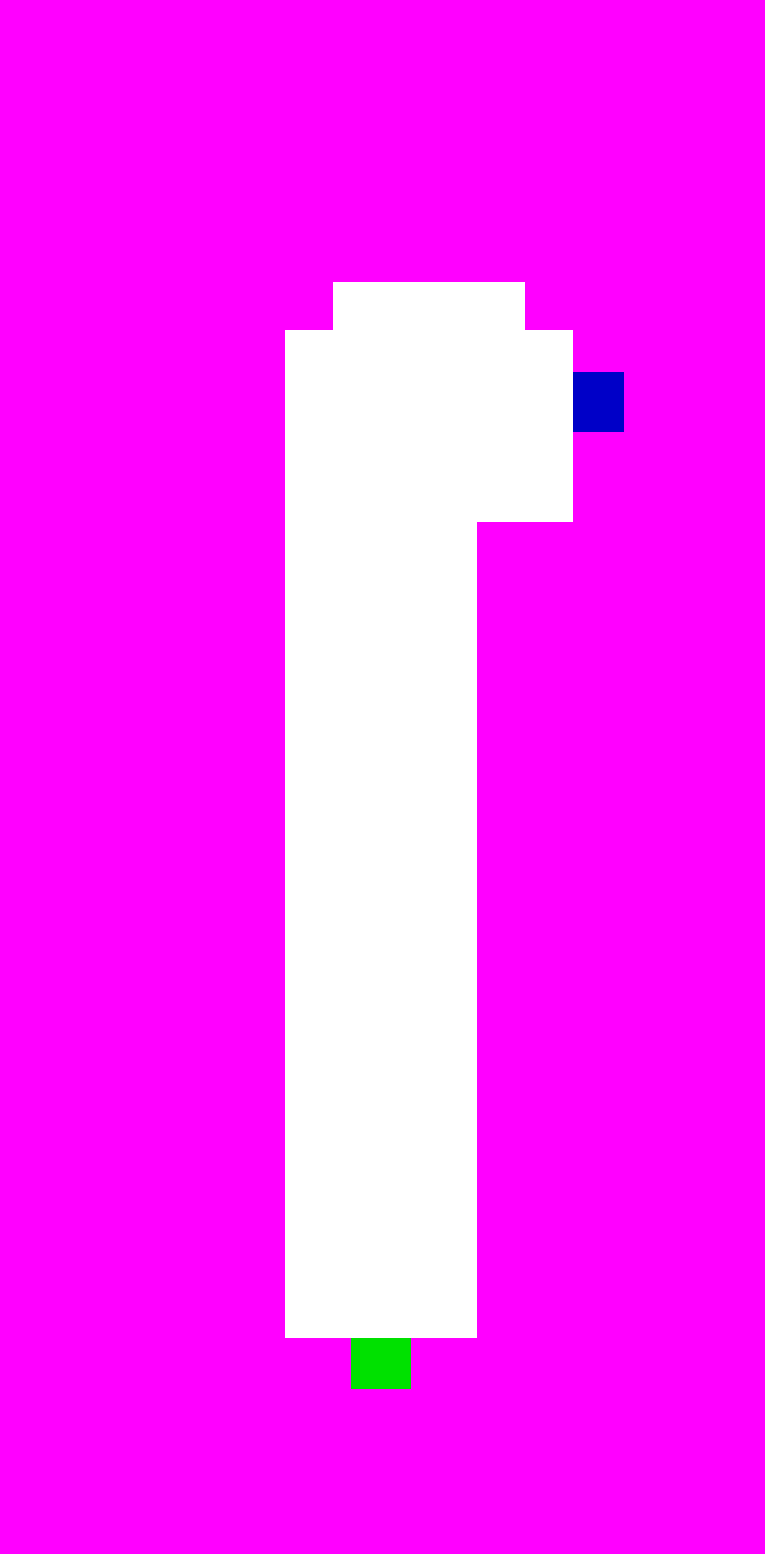
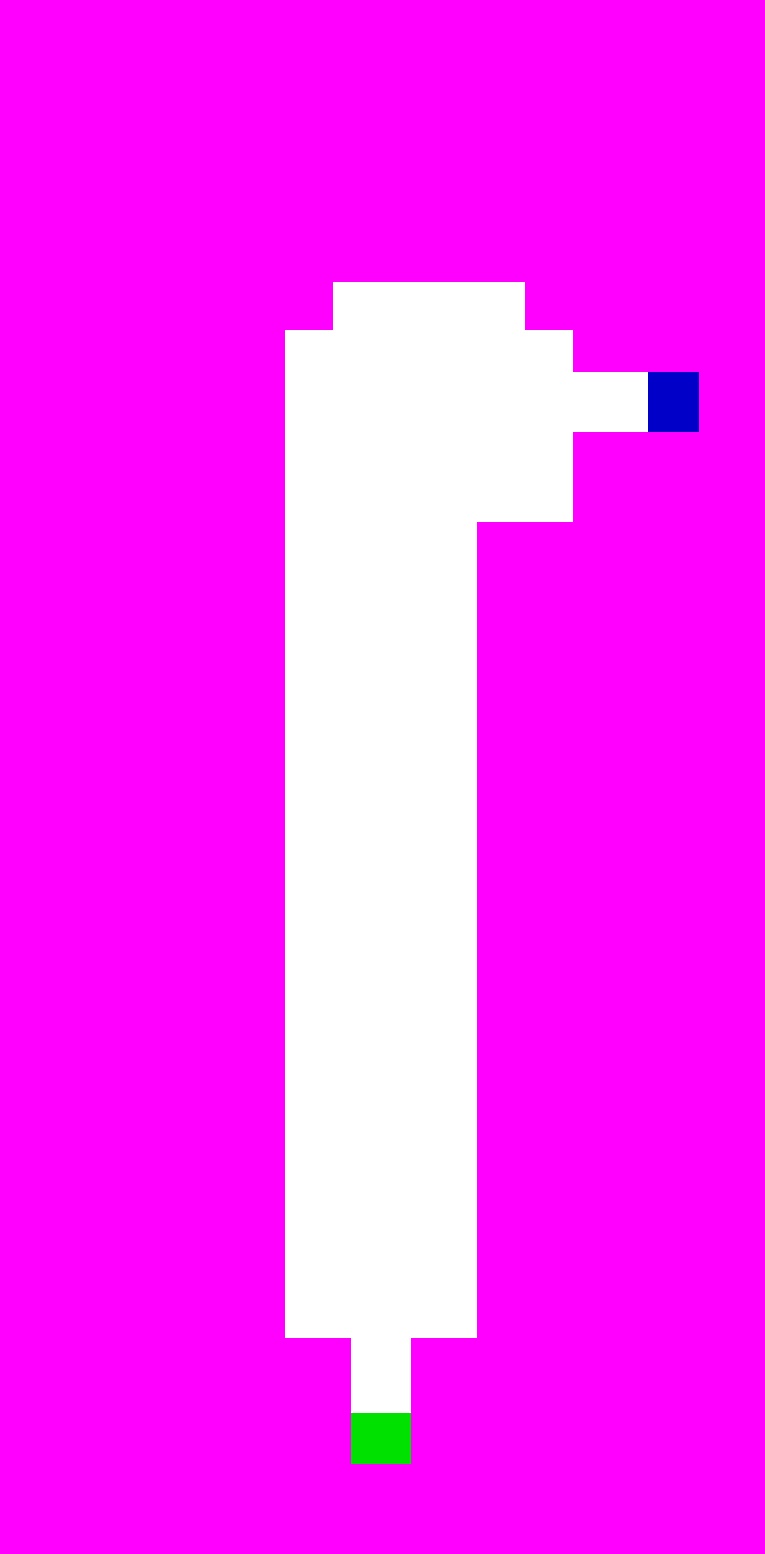
feat: update room move render order method

Changed region(s): [[0.7516, 0.2162, 0.932, 0.278], [0.451, 0.834, 0.5412, 0.9575]]

diff --git a/LinkToThePast/Zelda/HyruleCastleGameMode.cpp b/LinkToThePast/Zelda/HyruleCastleGameMode.cpp
@@ -8,6 +8,7 @@
 #include "Fade.h"
 #include "StatueFire.h"
 #include "StatueStone.h"
+#include "ContentsEnum.h"
 
 
 AHyruleCastleGameMode::AHyruleCastleGameMode()
@@ -70,32 +71,51 @@ void AHyruleCastleGameMode::RoomBeginPlay()
 
 	CreateRoomActor("Castle", 0);
 
+	this->Roomes[0]->CreateEnvSprite("Castle1Door1.png", FVector2D(285, 1389), FVector2D(195, 165), ERenderOrder::FIRST_FLOOR_OBJ);
+	this->Roomes[0]->CreateEnvSprite("Castle1Door2.png", FVector2D(624, 324), FVector2D(81, 174), ERenderOrder::FIRST_FLOOR_OBJ);
+
+	this->Roomes[1]->CreateEnvSprite("Castle2Door1.png", FVector2D(0, 255), FVector2D(141, 288), ERenderOrder::FIRST_FLOOR_OBJ);
+	this->Roomes[1]->CreateEnvSprite("Castle2Door2.png", FVector2D(1395, 300), FVector2D(140, 219), ERenderOrder::FIRST_FLOOR_OBJ);
+
 	this->Roomes[2]->SetIsSecondFloor(true);
 	this->Roomes[2]->GetColSpriteRenderer2F()->SetOrder(ERenderOrder::COLMAP);
 	this->Roomes[2]->GetColSpriteRenderer2F()->SetSprite("Castle3Collision2F.png");
 	FVector2D ColMap1Scale = this->Roomes[2]->GetColSpriteRenderer2F()->SetSpriteScale(1.0f);
 	this->Roomes[2]->GetColSpriteRenderer2F()->SetComponentLocation(ColMap1Scale.Half());
+	this->Roomes[2]->CreateEnvSprite("Castle3Door1.png", FVector2D(57, 252), FVector2D(84, 270), ERenderOrder::FIRST_FLOOR_OBJ);
+	this->Roomes[2]->CreateEnvSprite("Castle3Door2.png", FVector2D(288, 1389), FVector2D(195, 165), ERenderOrder::FIRST_FLOOR_OBJ);
+	this->Roomes[2]->CreateEnvSprite("Castle3Door3.png", FVector2D(635, 1458), FVector2D(268, 96), ERenderOrder::SECOND_FLOOR_OBJ);
 
 	this->Roomes[3]->SetIsSecondFloor(true);
 	this->Roomes[3]->GetColSpriteRenderer2F()->SetOrder(ERenderOrder::COLMAP);
 	this->Roomes[3]->GetColSpriteRenderer2F()->SetSprite("Castle4Collision2F.png");
 	FVector2D ColMap2Scale = this->Roomes[3]->GetColSpriteRenderer2F()->SetSpriteScale(1.0f);
 	this->Roomes[3]->GetColSpriteRenderer2F()->SetComponentLocation(ColMap2Scale.Half());
-	this->Roomes[3]->CreateEnvSprite("Castle4Bridge.png", FVector2D(528, 384), FVector2D(192, 552));
+	this->Roomes[3]->CreateEnvSprite("Castle4Bridge.png", FVector2D(528, 384), FVector2D(192, 552), ERenderOrder::SECOND_FLOOR);
+	this->Roomes[3]->CreateEnvSprite("Castle4Door1.png", FVector2D(288, 0), FVector2D(194, 168), ERenderOrder::FIRST_FLOOR_OBJ);
+	this->Roomes[3]->CreateEnvSprite("Castle4Door2.png", FVector2D(655, 0), FVector2D(212, 96), ERenderOrder::SECOND_FLOOR_OBJ);
+	this->Roomes[3]->CreateEnvSprite("Castle4Door3.png", FVector2D(0, 669), FVector2D(144, 195), ERenderOrder::FIRST_FLOOR_OBJ);
+	this->Roomes[3]->CreateEnvSprite("Castle4Door4.png", FVector2D(183, 1440), FVector2D(396, 96), ERenderOrder::SECOND_FLOOR_OBJ);
 
 	this->Roomes[4]->SetIsSecondFloor(true);
 	this->Roomes[4]->GetColSpriteRenderer2F()->SetOrder(ERenderOrder::COLMAP);
 	this->Roomes[4]->GetColSpriteRenderer2F()->SetSprite("Castle5Collision2F.png");
 	FVector2D ColMap3Scale = this->Roomes[4]->GetColSpriteRenderer2F()->SetSpriteScale(1.0f);
 	this->Roomes[4]->GetColSpriteRenderer2F()->SetComponentLocation(ColMap3Scale.Half());
-	this->Roomes[4]->CreateEnvSprite("Castle5Door1.png", FVector2D(0, 645), FVector2D(141, 243));
+	this->Roomes[4]->CreateEnvSprite("Castle5Door1.png", FVector2D(0, 645), FVector2D(141, 243), ERenderOrder::FIRST_FLOOR_OBJ);
+	this->Roomes[4]->CreateEnvSprite("Castle5Door2.png", FVector2D(1395, 653), FVector2D(81, 235), ERenderOrder::FIRST_FLOOR_OBJ);
+	this->Roomes[4]->CreateEnvSprite("Castle5Door3.png", FVector2D(688, 0), FVector2D(160, 96), ERenderOrder::SECOND_FLOOR_OBJ);
+	this->Roomes[4]->CreateEnvSprite("Castle5Door4.png", FVector2D(0, 318), FVector2D(69, 135), ERenderOrder::SECOND_FLOOR_OBJ);
 
 	this->Roomes[5]->SetIsSecondFloor(true);
 	this->Roomes[5]->GetColSpriteRenderer2F()->SetOrder(ERenderOrder::COLMAP);
 	this->Roomes[5]->GetColSpriteRenderer2F()->SetSprite("Castle6Collision2F.png");
 	FVector2D ColMap4Scale = this->Roomes[5]->GetColSpriteRenderer2F()->SetSpriteScale(1.0f);
 	this->Roomes[5]->GetColSpriteRenderer2F()->SetComponentLocation(ColMap4Scale.Half());
-	this->Roomes[5]->CreateEnvSprite("Castle6Bridge.png", FVector2D(261, 336), FVector2D(243, 192));
+	this->Roomes[5]->CreateEnvSprite("Castle6Bridge.png", FVector2D(261, 336), FVector2D(243, 192), ERenderOrder::SECOND_FLOOR);
+	this->Roomes[5]->CreateEnvSprite("Castle6Door1.png", FVector2D(624, 687), FVector2D(141, 165), ERenderOrder::FIRST_FLOOR_OBJ);
+	this->Roomes[5]->CreateEnvSprite("Castle6Door2.png", FVector2D(696, 273), FVector2D(69, 225), ERenderOrder::SECOND_FLOOR_OBJ);
+	this->Roomes[5]->CreateEnvSprite("Castle6Door3.png", FVector2D(288, 0), FVector2D(189, 165), ERenderOrder::FIRST_FLOOR_OBJ);
 }
 
 void AHyruleCastleGameMode::BeginPlayEnvActor()

diff --git a/LinkToThePast/Zelda/ZeldaGameMode.cpp b/LinkToThePast/Zelda/ZeldaGameMode.cpp
@@ -301,6 +301,9 @@ void AZeldaGameMode::EndRoomMove()
 	CameraStartLocation = FVector2D::ZERO;
 	CameraEndLocation = FVector2D::ZERO;
 	RoomMoveState = ERoomMoveState::CHECK;
+
+	float RightLeftPadding = 160.0f;
+	float UpDownPadding = 180.0f;
 	
 	FVector2D MoveSize = FVector2D::ZERO;
 
@@ -310,7 +313,7 @@ void AZeldaGameMode::EndRoomMove()
 		break;
 	case ERoomDirection::RIGHT:
 		MoveSize = { 
-			UEngineAPICore::GetCore()->GetMainWindow().GetWindowSize().Half().X + RoomMovePadding, 
+			UEngineAPICore::GetCore()->GetMainWindow().GetWindowSize().Half().X + RoomMovePadding - RightLeftPadding,
 			0.0f };
 		PlayerCharacter->SetActorLocation(PlayerCharacter->GetActorLocation() + MoveSize);
 		break;
@@ -328,13 +331,13 @@ void AZeldaGameMode::EndRoomMove()
 		break;
 	case ERoomDirection::RIGHT_SMALL:
 		MoveSize = {
-			SmallMoveDistance,
+			SmallMoveDistance - RightLeftPadding,
 			0.0f };
 		PlayerCharacter->SetActorLocation(PlayerCharacter->GetActorLocation() + MoveSize);
 		break;
 	case ERoomDirection::LEFT:
 		MoveSize = {
-			( (UEngineAPICore::GetCore()->GetMainWindow().GetWindowSize().Half().X) * -1.0f) - RoomMovePadding, 
+			( (UEngineAPICore::GetCore()->GetMainWindow().GetWindowSize().Half().X) * -1.0f) - RoomMovePadding + RightLeftPadding,
 			0.0f };
 		PlayerCharacter->SetActorLocation(PlayerCharacter->GetActorLocation() + MoveSize);
 		break;
@@ -352,20 +355,20 @@ void AZeldaGameMode::EndRoomMove()
 		break;
 	case ERoomDirection::LEFT_SMALL:
 		MoveSize = {
-			-SmallMoveDistance,
+			-SmallMoveDistance + RightLeftPadding,
 			0.0f };
 		PlayerCharacter->SetActorLocation(PlayerCharacter->GetActorLocation() + MoveSize);
 		break;
 	case ERoomDirection::UP:
 		MoveSize = {
 			0.0f, 
-			UEngineAPICore::GetCore()->GetMainWindow().GetWindowSize().Half().Y * -1.0f };
+			(UEngineAPICore::GetCore()->GetMainWindow().GetWindowSize().Half().Y * -1.0f) + UpDownPadding };
 		PlayerCharacter->SetActorLocation(PlayerCharacter->GetActorLocation() + MoveSize);
 		break;
 	case ERoomDirection::UP_2F:
 		MoveSize = {
 			0.0f,
-			(UEngineAPICore::GetCore()->GetMainWindow().GetWindowSize().Half().Y * -1.0f) * RoomSizeRatio };
+			((UEngineAPICore::GetCore()->GetMainWindow().GetWindowSize().Half().Y * -1.0f) * RoomSizeRatio) + UpDownPadding };
 		PlayerCharacter->SetActorLocation(PlayerCharacter->GetActorLocation() + MoveSize);
 		break;
 	case ERoomDirection::UP_DIRECT:
@@ -377,13 +380,13 @@ void AZeldaGameMode::EndRoomMove()
 	case ERoomDirection::DOWN:
 		MoveSize = {
 			0.0f,
-			UEngineAPICore::GetCore()->GetMainWindow().GetWindowSize().Half().Y };
+			(UEngineAPICore::GetCore()->GetMainWindow().GetWindowSize().Half().Y) - UpDownPadding };
 		PlayerCharacter->SetActorLocation(PlayerCharacter->GetActorLocation() + MoveSize);	
 		break;
 	case ERoomDirection::DOWN_2F:
 		MoveSize = { 
 			0.0f,
-			UEngineAPICore::GetCore()->GetMainWindow().GetWindowSize().Half().Y * RoomSizeRatio };
+			(UEngineAPICore::GetCore()->GetMainWindow().GetWindowSize().Half().Y * RoomSizeRatio ) - UpDownPadding };
 		PlayerCharacter->SetActorLocation(PlayerCharacter->GetActorLocation() + MoveSize);
 		break;
 	case ERoomDirection::DOWN_DIRECT	:

diff --git a/LinkToThePast/Zelda/Room.cpp b/LinkToThePast/Zelda/Room.cpp
@@ -113,10 +113,21 @@ void ARoom::SetCulWinImageTo2F()
 	CurColSpriteRenderer = ColSpriteRenderer2F;
 }
 
-void ARoom::CreateEnvSprite(std::string_view SpriteName, FVector2D Location, FVector2D Size)
+void ARoom::CreateEnvSprite(std::string_view SpriteName, FVector2D Location, FVector2D Size, ERenderOrder Floor)
 {
 	USpriteRenderer* EnvSpriteRenderer = CreateDefaultSubObject<USpriteRenderer>();
-	EnvSpriteRenderer->SetOrder(ERenderOrder::SECOND_FLOOR);
+
+	int SecondFloorOrder = 0;
+
+	if (Floor == ERenderOrder::SECOND_FLOOR)
+	{
+		SecondFloorOrder = static_cast<int>(Floor);
+	}
+	else
+	{
+		SecondFloorOrder = static_cast<int>(Floor) + 3000;
+	}
+	EnvSpriteRenderer->SetOrder(SecondFloorOrder);
 	EnvSpriteRenderer->SetSprite(SpriteName);
 	FVector2D EnvScale = EnvSpriteRenderer->SetSpriteScale(1.0f);
 	EnvSpriteRenderer->SetComponentLocation(EnvScale.Half());

diff --git a/LinkToThePast/Zelda/DungeonGameMode.cpp b/LinkToThePast/Zelda/DungeonGameMode.cpp
@@ -93,7 +93,7 @@ void ACastleDungeonGameMode::RoomBeginPlay()
 	this->Roomes[7]->GetColSpriteRenderer2F()->SetSprite("CastleDungeon8Collision2F.png");
 	FVector2D ColMap8Scale = this->Roomes[7]->GetColSpriteRenderer2F()->SetSpriteScale(1.0f);
 	this->Roomes[7]->GetColSpriteRenderer2F()->SetComponentLocation(ColMap8Scale.Half());
-	this->Roomes[7]->CreateEnvSprite("CastleDungeon8Bridge.png", FVector2D(1008, 410), FVector2D(144, 500));
+	this->Roomes[7]->CreateEnvSprite("CastleDungeon8Bridge.png", FVector2D(1008, 410), FVector2D(144, 500), ERenderOrder::SECOND_FLOOR);
 	
 }
 

diff --git a/LinkToThePast/Zelda/Room.h b/LinkToThePast/Zelda/Room.h
@@ -72,7 +72,7 @@ public:
 		EnvSprites.push_back(SpriteRender);
 	}
 
-	void CreateEnvSprite(std::string_view SpriteName, FVector2D Location, FVector2D Size);
+	void CreateEnvSprite(std::string_view SpriteName, FVector2D Location, FVector2D Size, ERenderOrder Floor);
 
 	FVector2D RoomSize = FVector2D::ZERO;
 	FVector2D LeftTopPos = FVector2D::ZERO;
